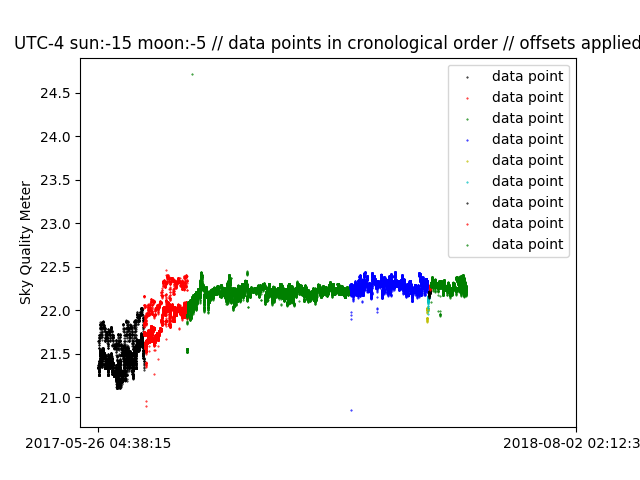
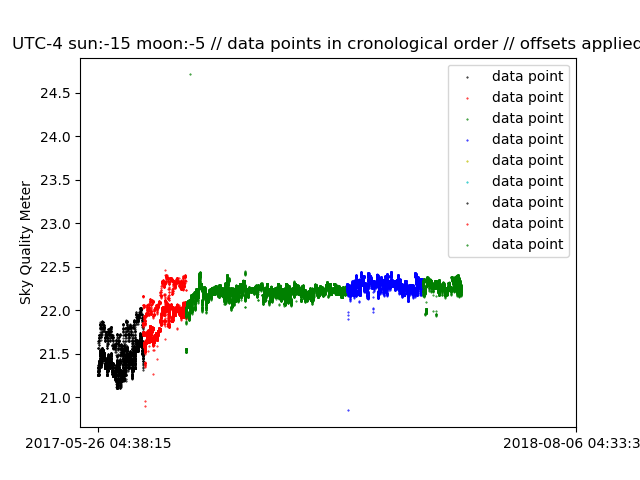
offsets_corr.py made cronological with datetime

diff --git a/offsets_sid.py b/offsets_sid.py
@@ -1,0 +1,106 @@
+#!/usr/bin/python
+import WeatherStatistics as WS
+import numpy as np
+#matplotlib.use("Agg")
+from matplotlib import pyplot as plt
+import matplotlib.dates as mpldates
+import dateutil
+from numpy import append,array,where,pi,polyfit,where,mean
+from pylab import cm
+import datetime
+import pymysql.cursors
+import ephemerids
+
+#colors = ['r', 'y', 'b', 'greenyellow', 'c', 'g', 'black']
+
+#binSize = 10080 # data points, one per minute, 10.080 a week
+[db_cursor, database] = WS.db_connect()
+search = "SELECT `UTC`, `sqm`, `SiderealTime` FROM `weather` WHERE \
+`UTC` > '2017-08-05 10:17:15' AND `UTC` <= '2018-12-01 01:08:24' AND \
+`SunElevation` < -15 AND `MoonElevation` < -5 AND \
+`weatherstatus`= 'Go Science!' ORDER BY `UTC` ASC LIMIT 1000000"
+
+db_cursor.execute(search)
+res = db_cursor.fetchall()
+print "From ", res[0], " to ", res[-1]
+# y = []
+# x = []
+# offset = 0.7-3.2+2.09+0.32-0.28-0.11-0.19-0.29+0.28+0.34
+# y2 = []
+# x2 = []
+# offset2 = 0.7+2.09+0.32-0.28-0.11-0.19-0.29+0.28+0.34
+y3 = []
+x3 = []
+offset3 = 0.35+0.32-0.28-0.11-0.19-0.29+0.28+0.34
+y4 = []
+x4 = []
+offset4 = 0.35-0.28-0.11-0.19-0.29+0.28+0.34
+y5 = []
+x5 = []
+offset5 = -0.11-0.19-0.29+0.28+0.34
+y6 = []
+x6 = []
+offset6 = -0.19-0.29+0.28+0.34
+y7 = []
+x7 = []
+offset7 = -0.29+0.28+0.34
+y8 = []
+x8 = []
+offset8 = 0.28+0.34
+y9 = []
+x9 = []
+offset9 = 0.34
+counter = 0
+for e in res:
+    #print e[2][0:5]
+    # if e[0] <= '2017-07-04 10:29:14':
+    # 	x.append(e[2][0:5])
+    # 	y.append(e[1] + offset)
+    # elif e[0] <= '2017-08-05 10:17:15':
+    #     x2.append(e[2][0:5])
+    # 	y2.append(e[1] + offset2)
+    if e[0] <= '2017-11-30 08:15:29':
+        x3.append(e[2][0:5])
+    	y3.append(e[1] + offset3)
+    elif e[0] <= '2018-01-29 08:54:35':
+        x4.append(e[2][0:5])
+    	y4.append(e[1] + offset4)
+    elif e[0] <= '2018-02-04 01:46:23':
+        x5.append(e[2][0:5])
+    	y5.append(e[1] + offset5)
+    elif e[0] <= '2018-02-07 03:34:24':
+        x6.append(e[2][0:5])
+    	y6.append(e[1] + offset6)
+    elif e[0] <= '2018-02-08 04:10:21':
+        x7.append(e[2][0:5])
+    	y7.append(e[1] + offset7)
+    elif e[0] <= '2018-02-09 03:19:30':
+        x8.append(e[2][0:5])
+    	y8.append(e[1] + offset8)
+    elif e[0] <= '2018-02-22 09:19:23':
+        x9.append(e[2][0:5])
+    	y9.append(e[1] + offset9)
+    counter += 1
+
+print "There are " + str(counter) + " data points."
+# plt.scatter(x, y, 1, c='black', alpha=0.05, label='data point')
+# plt.scatter(x2, y2, 1, c='r', alpha=0.05, label='data point')
+plt.scatter(x3, y3, 1, c='black', alpha=0.05, label='data point')
+plt.scatter(x4, y4, 1, c='black', alpha=0.05, label='data point')
+plt.scatter(x5, y5, 1, c='black', alpha=0.05, label='data point')
+plt.scatter(x6, y6, 1, c='black', alpha=0.05, label='data point')
+plt.scatter(x7, y7, 1, c='black', alpha=0.05, label='data point')
+plt.scatter(x8, y8, 1, c='black', alpha=0.05, label='data point')
+plt.scatter(x9, y9, 1, c='black', alpha=0.05, label='data point')
+plt.legend()
+plt.title('Sidereal time // sun:-15 moon:-5 // offsets applied')
+plt.ylabel('Sky Quality Meter')
+ticks = ['00:00', '24:00']
+ticks_labels = ['0hrs', '24hrs']
+time_start = time(0,0,0)
+time_end = time(24,0,0)
+ticks = [time_start, time_end]
+ticks_labels = [time_start, time_end]
+plt.xticks(ticks, ticks_labels)
+plt.savefig("offsets_sid.png")
+plt.show()

diff --git a/offsets_corr.py b/offsets_corr.py
@@ -10,6 +10,7 @@ from pylab import cm
 import datetime
 import pymysql.cursors
 import ephemerids
+from datetime import datetime
 
 #colors = ['r', 'y', 'b', 'greenyellow', 'c', 'g', 'black']
 
@@ -50,36 +51,42 @@ offset8 = 0.28+0.34
 y9 = []
 x9 = []
 offset9 = 0.34
+x10 = []
+y10 = []
 counter = 0
 for e in res:
     #print e[0]
+    time = datetime.strptime(e[0], '%Y-%m-%d %H:%M:%S')
     if e[0] <= '2017-07-04 10:29:14':
-    	x.append(counter)
+    	x.append(time)
     	y.append(e[1] + offset)
     elif e[0] <= '2017-08-05 10:17:15':
-        x2.append(counter)
+        x2.append(time)
     	y2.append(e[1] + offset2)
     elif e[0] <= '2017-11-30 08:15:29':
-        x3.append(counter)
+        x3.append(time)
     	y3.append(e[1] + offset3)
     elif e[0] <= '2018-01-29 08:54:35':
-        x4.append(counter)
+        x4.append(time)
     	y4.append(e[1] + offset4)
     elif e[0] <= '2018-02-04 01:46:23':
-        x5.append(counter)
+        x5.append(time)
     	y5.append(e[1] + offset5)
     elif e[0] <= '2018-02-07 03:34:24':
-        x6.append(counter)
+        x6.append(time)
     	y6.append(e[1] + offset6)
     elif e[0] <= '2018-02-08 04:10:21':
-        x7.append(counter)
+        x7.append(time)
     	y7.append(e[1] + offset7)
     elif e[0] <= '2018-02-09 03:19:30':
-        x8.append(counter)
+        x8.append(time)
     	y8.append(e[1] + offset8)
     elif e[0] <= '2018-02-22 09:19:23':
-        x9.append(counter)
+        x9.append(time)
     	y9.append(e[1] + offset9)
+    else:
+        x10.append(time)
+        y10.append(e[1])
     counter += 1
 
 print "There are " + str(counter) + " data points."
@@ -92,11 +99,16 @@ plt.scatter(x6, y6, 0.2, c='c', alpha=1, label='data point')
 plt.scatter(x7, y7, 0.2, c='black', alpha=1, label='data point')
 plt.scatter(x8, y8, 0.2, c='r', alpha=1, label='data point')
 plt.scatter(x9, y9, 0.2, c='g', alpha=1, label='data point')
-plt.legend()
-plt.title('UTC-4 sun:-15 moon:-5 // data points in cronological order // offsets applied')
+plt.scatter(x10, y10, 0.2, c='b', alpha=1, label='data point')
+#plt.legend()
+plt.title('UTC // sun:-15 moon:-5 // cronological order // offsets applied')
 plt.ylabel('Sky Quality Meter')
-ticks = [0, counter-1]
-ticks_labels = ['%s' % (res[0][0]), '%s' % (res[-1][0])]
+# ticks = [0, counter-1]
+# ticks_labels = ['%s' % (res[0][0]), '%s' % (res[-1][0])]
+time_start = datetime(2017,5,26,4,38,15)
+time_end = datetime(2018,8,6,5,22,39)
+ticks = [time_start, time_end]
+ticks_labels = [time_start, time_end]
 plt.xticks(ticks, ticks_labels)
-plt.savefig("offsets_corr.png")
+plt.savefig("offsets_corr2.png")
 plt.show()

diff --git a/plot1.py b/plot1.py
@@ -13,8 +13,6 @@ import ephemerids
 
 colors = ['r', 'y', 'b', 'greenyellow', 'c', 'g', 'black']
 
-
-#binSize = 10080 # data points, one per minute, 10.080 a week
 [db_cursor, database] = WS.db_connect()
 search = "SELECT `UTC`, `sqm` FROM `weather` WHERE \
 `UTC` >= '2017-01-01 03:29:25' AND `UTC` <= '2018-12-25 01:08:24' AND \
